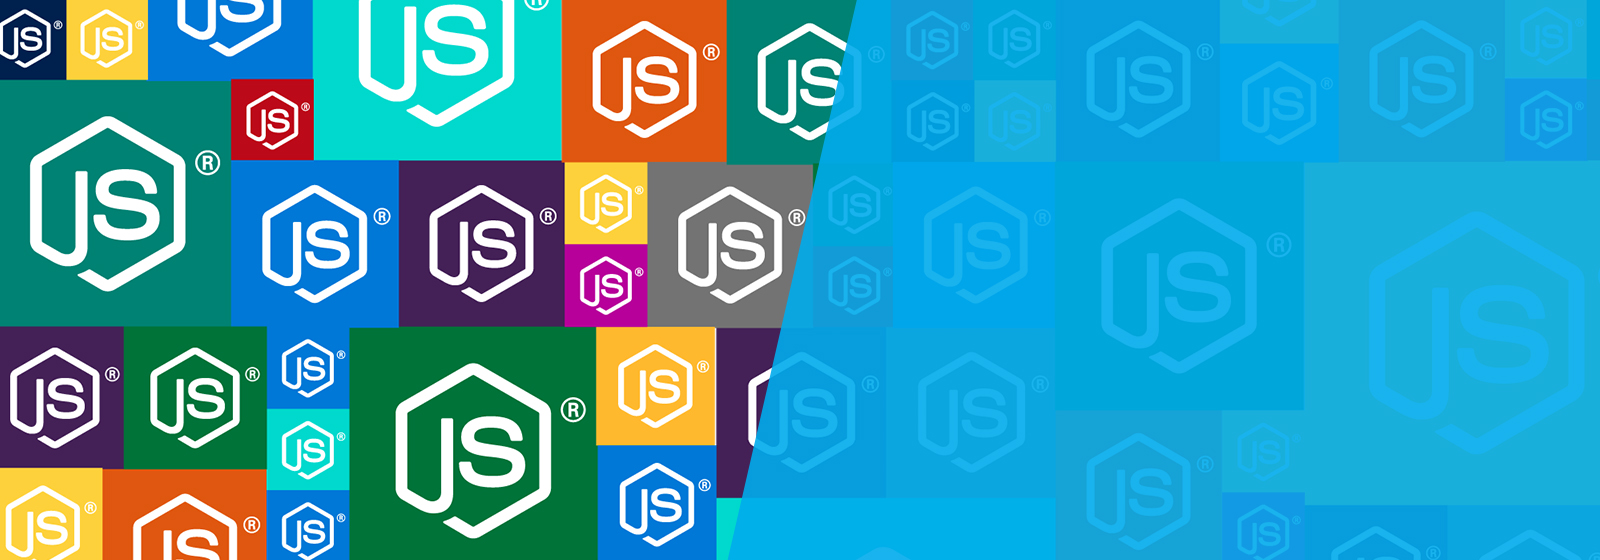
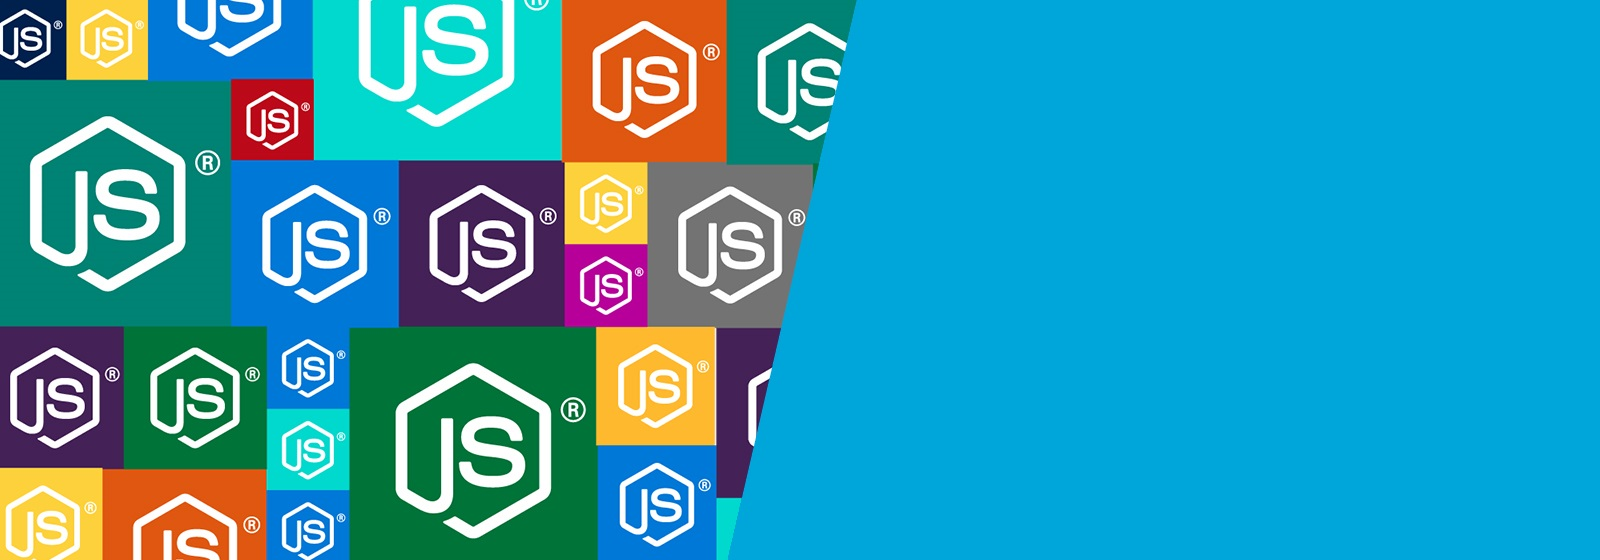
Style changes for azure platform ad

diff --git a/SimpleWAWS/Content/Site.css b/SimpleWAWS/Content/Site.css
@@ -9450,8 +9450,7 @@ div.sprite-javascript{ background-position: 0 -825px; width: 115px; height: 115p
 }
 
 .background-what-is-azure {
-    background-image: url(/Content/images/azurebanner.jpg);
-    background-position: 50% 50%;
+    background-image: url(/Content/images/azurebanner.png);
     background-repeat: no-repeat;
     text-align: center;
 }
